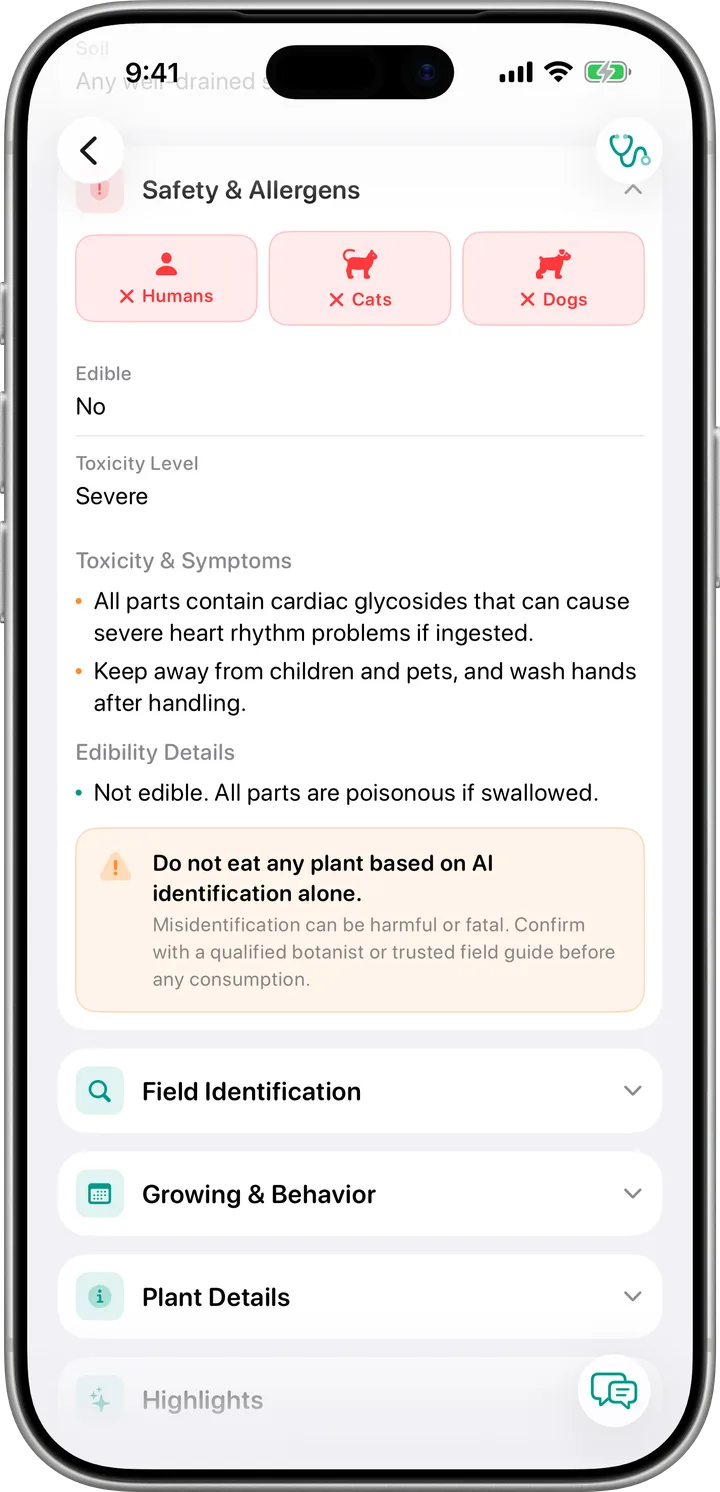
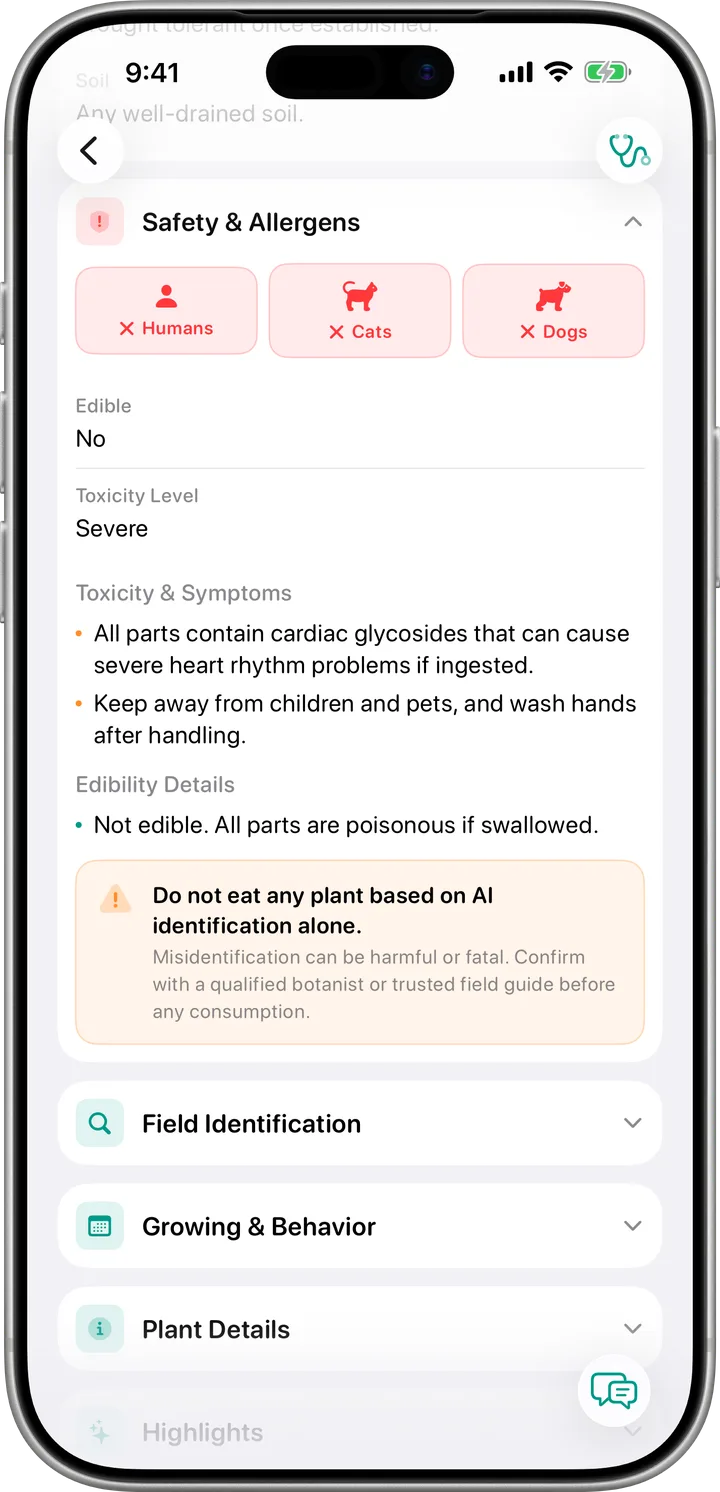
Reshoot the safety screen lower and version the screenshot URLs

diff --git a/index.html b/index.html
@@ -270,7 +270,7 @@
     </div>
 
     <div class="phone-wrap rise d3">
-      <img class="device hero-device" src="/assets/framed-01.webp" alt="Plantz scanning an oleander flower and flagging it as toxic" width="720" height="1492" fetchpriority="high">
+      <img class="device hero-device" src="/assets/framed-01.webp?v=3" alt="Plantz scanning an oleander flower and flagging it as toxic" width="720" height="1492" fetchpriority="high">
     </div>
   </section>
 
@@ -282,7 +282,7 @@
         <p>From trees and flowers to weeds and houseplants, Plantz gives you the common and Latin name in seconds, and tells you whether it’s edible.</p>
       </div>
       <div class="f-media">
-        <img class="device feature-device" src="/assets/framed-02.webp" alt="Plantz identifying a plant from a photo" width="720" height="1492" loading="lazy">
+        <img class="device feature-device" src="/assets/framed-02.webp?v=3" alt="Plantz identifying a plant from a photo" width="720" height="1492" loading="lazy">
       </div>
     </div>
 
@@ -294,7 +294,7 @@
         <p class="fineprint">Identification aid, not medical or veterinary advice. Never eat or treat a plant based on the app alone.</p>
       </div>
       <div class="f-media">
-        <img class="device feature-device" src="/assets/framed-03.webp" alt="Safety and allergens screen showing toxicity for humans, cats and dogs" width="720" height="1492" loading="lazy">
+        <img class="device feature-device" src="/assets/framed-03.webp?v=3" alt="Safety and allergens screen showing toxicity for humans, cats and dogs" width="720" height="1492" loading="lazy">
       </div>
     </div>
 
@@ -305,7 +305,7 @@
         <p>Yellowing tips? Brown edges? Scan your plant to get a health report: problems detected, care mistakes, and how to fix them with watering, light and soil tips.</p>
       </div>
       <div class="f-media">
-        <img class="device feature-device" src="/assets/framed-04.webp" alt="Plant Health Report listing detected problems and care mistakes" width="720" height="1492" loading="lazy">
+        <img class="device feature-device" src="/assets/framed-04.webp?v=3" alt="Plant Health Report listing detected problems and care mistakes" width="720" height="1492" loading="lazy">
       </div>
     </div>
 
@@ -316,7 +316,7 @@
         <p>Open the chat on any plant in your history and type your question: how often to water it, why the leaves curl, what to do if your dog ate a piece. Plantz answers about that plant, using its photo and scan result.</p>
       </div>
       <div class="f-media">
-        <img class="device feature-device" src="/assets/framed-05.webp" alt="Plantz chat answering questions about an oleander and a cat" width="720" height="1492" loading="lazy">
+        <img class="device feature-device" src="/assets/framed-05.webp?v=3" alt="Plantz chat answering questions about an oleander and a cat" width="720" height="1492" loading="lazy">
       </div>
     </div>
   </section>
